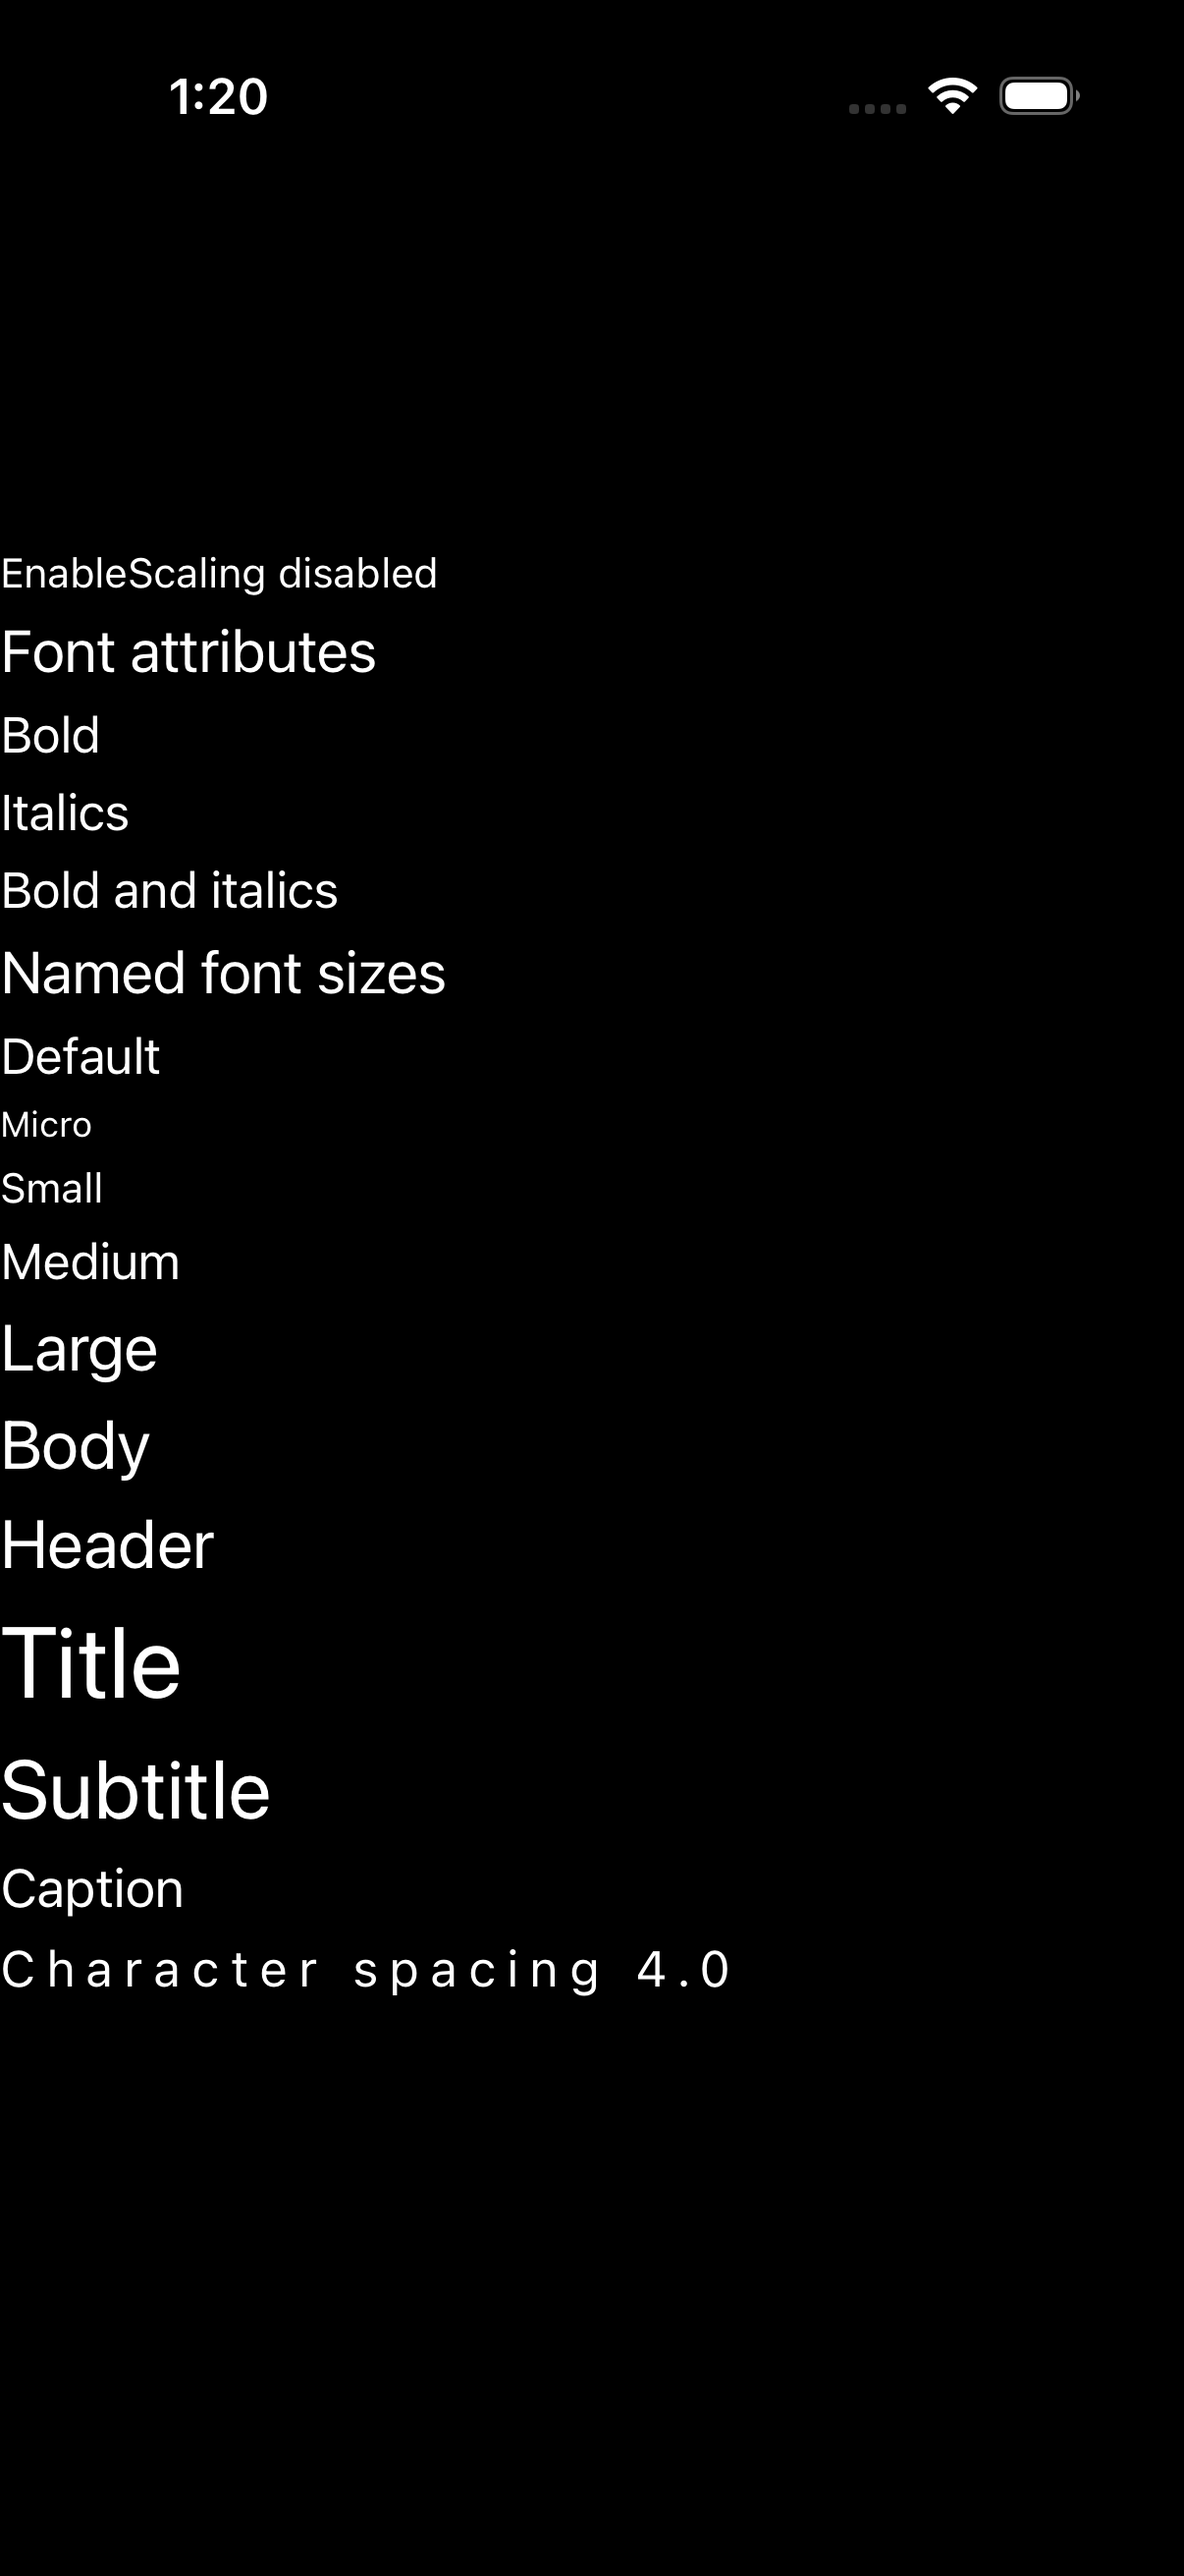
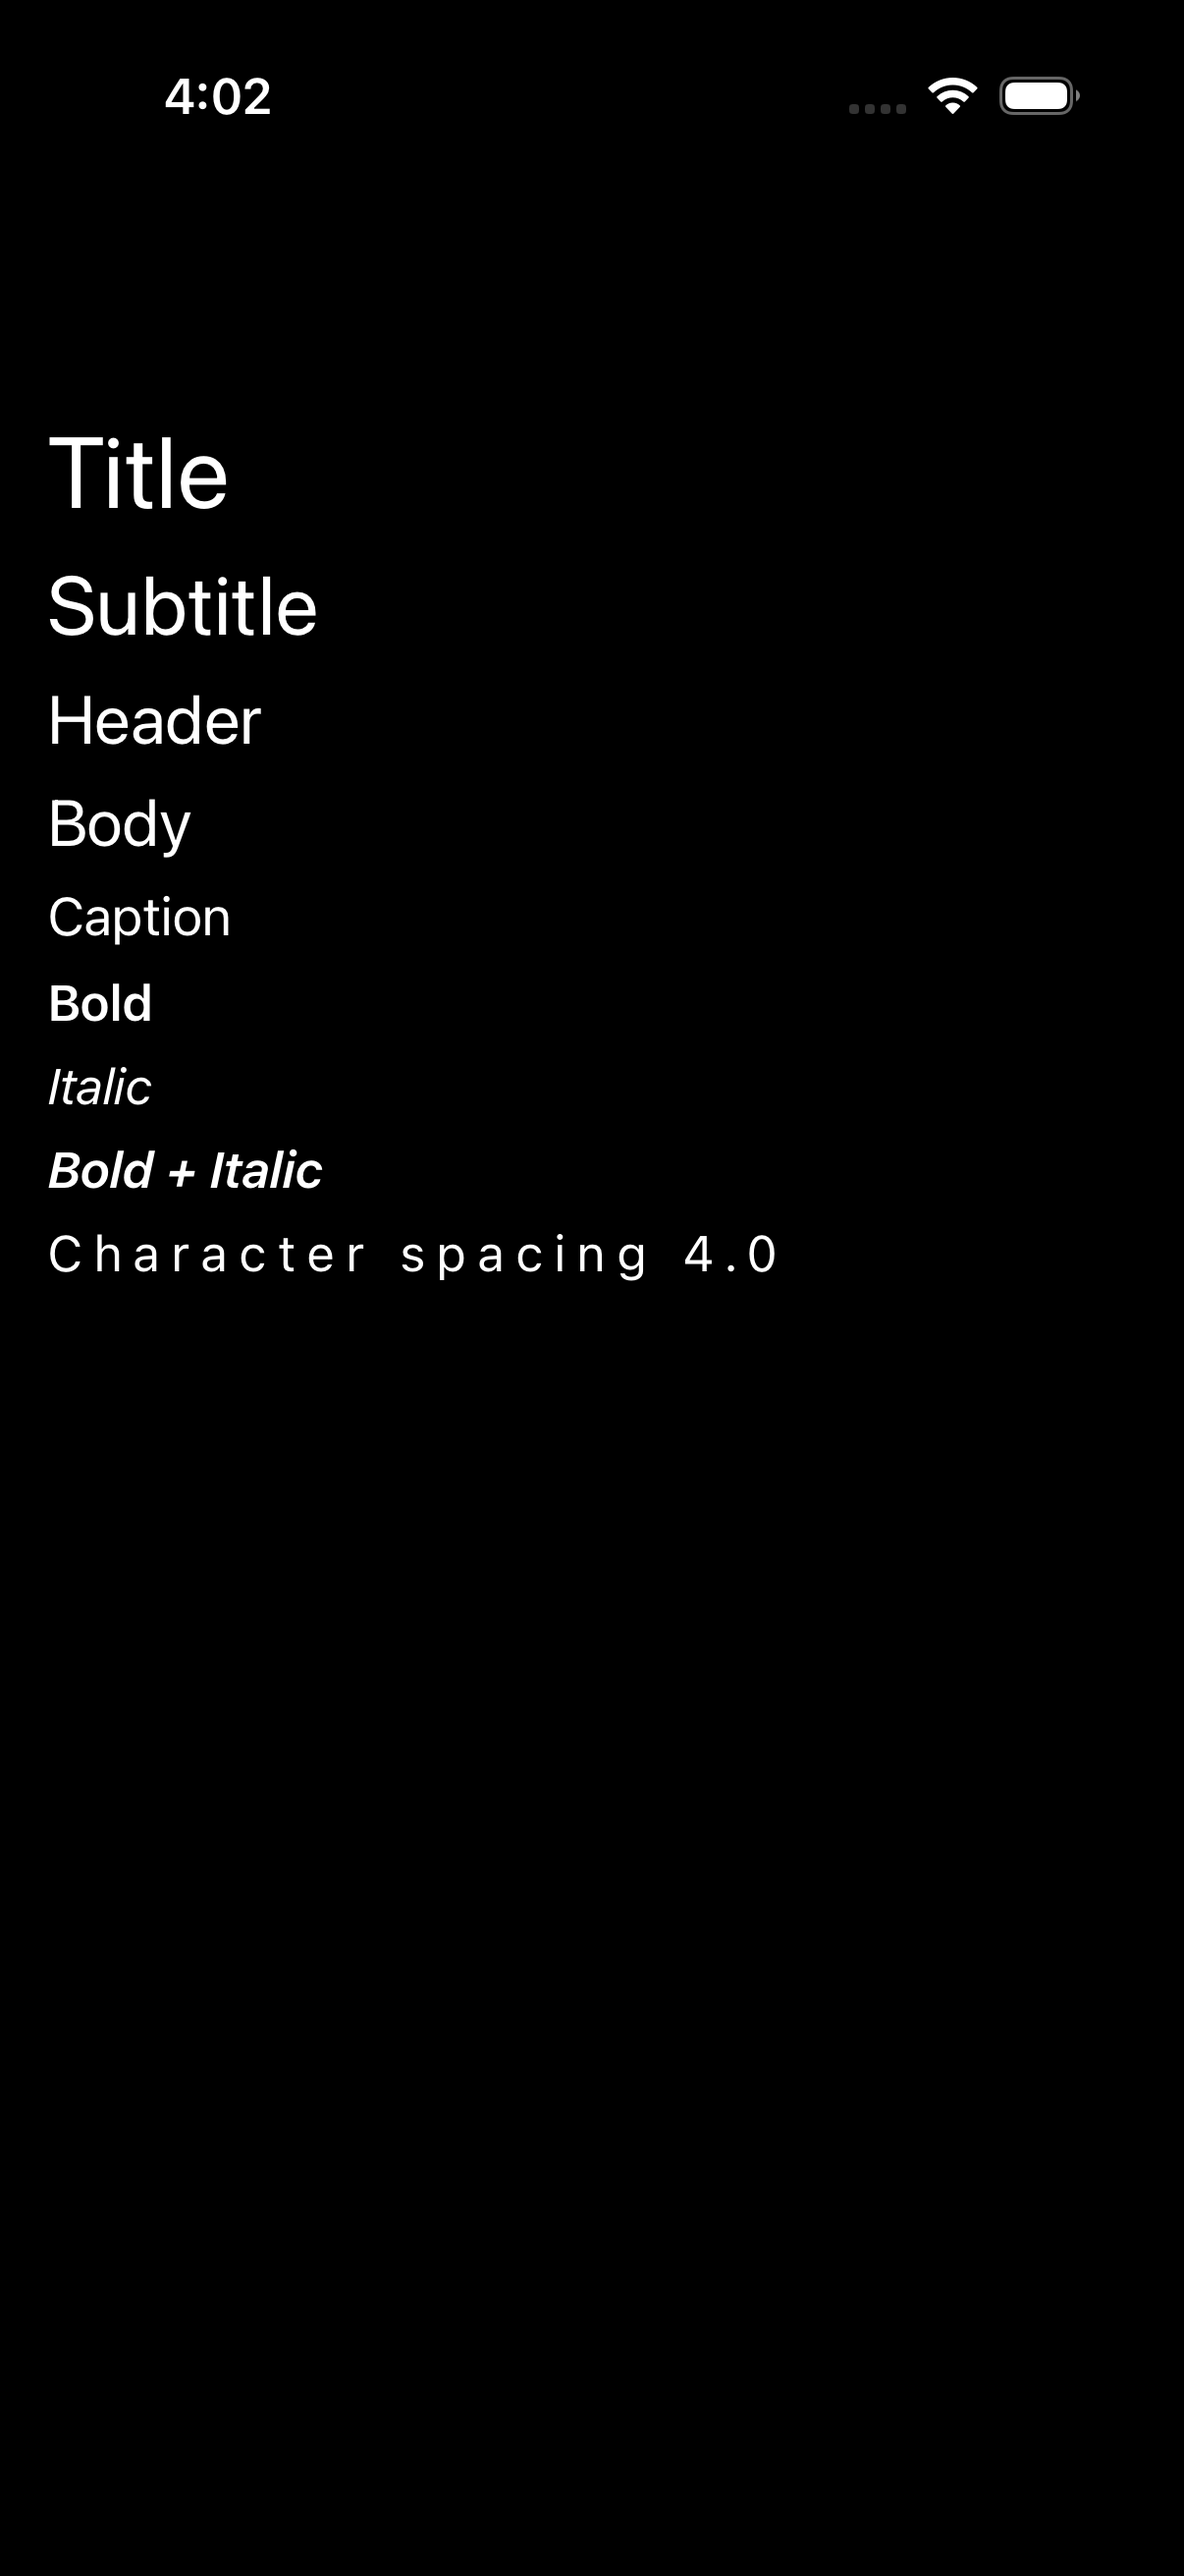
fix(samples,ios): fonts demo matches maui-compare + to_ui_font applies bold/italic
- fonts_page rewritten to reproduce ComparePages.Fonts() 1:1: a ScrollView
  of Title/Subtitle/Header/Body/Caption (34/28/23/22/18), then Bold/Italic/
  Bold+Italic (FontAttributes, default size), then 'Character spacing 4.0'
  (was a richer divergent FontsPage port).
- iOS FONT FIX: to_ui_font (used by label/button/entry/editor/searchbar/
  picker map_font) IGNORED the font's weight + slant — so FontAttributes=
  Bold/Italic rendered REGULAR on every base control (only attributed RUNS
  via to_ui_run_font got traits). Now folds weight->TraitBold, slant->
  TraitItalic, matching Font.ToUIFont. Additive: regular fonts unchanged.
  ios label seam 15/15 green. Verified on-sim: Bold/Italic/Bold+Italic now
  render correctly, fonts matches C#.

diff --git a/port/cpp/src/samples/pages/fonts_page.hpp b/port/cpp/src/samples/pages/fonts_page.hpp
@@ -1,37 +1,27 @@
 #pragma once
-// maui::samples::fonts_page — ports FontsPage.xaml.
+// maui::samples::fonts_page — a faithful reproduction of the maui-compare "fonts" demo
+// (ComparePages.Fonts()), the shipped-.NET-MAUI reference for the visual-parity comparison: a ScrollView
+// over a VerticalStackLayout (Spacing 8, Padding 16) of nine Labels — Title/Subtitle/Header/Body/Caption
+// at explicit decreasing FontSizes (34/28/23/22/18), then Bold / Italic / Bold+Italic via FontAttributes
+// (default size), then a "Character spacing 4.0" label (CharacterSpacing 4.0). Kept 1:1 with the C#
+// reference (same text, sizes, attributes, order).
 //
-// The MAUI page is a ScrollView over a VerticalStackLayout of labels demonstrating font handling:
-//   - a label with FontAutoScalingEnabled="False",
-//   - the FontAttributes set: Bold, Italic, and Bold+Italic,
-//   - the named font sizes: Default, Micro, Small, Medium, Large, Body, Header, Title, Subtitle, Caption.
-//
-// Port mapping (code-first, headless-safe, faithful to the port's font surface — label::set_font over
-// maui::core::font):
-//   - FontAttributes fold into the font's weight + slant: Bold → font_weight::bold, Italic → font_slant
-//     ::italic, Bold,Italic → both (the FontExtensions.WithAttributes mapping the port already uses for
-//     spans). This page builds them directly with font::system_font_of_size(size, weight, slant).
-//   - FontAutoScalingEnabled="False" → font.with_auto_scaling(false) (Font.DisableScaling).
-//   - the named sizes resolve through the Apple FontNamedSizeService table the port's FontSizeConverter
-//     uses (FontNamedSizeService.cs): Default=17 Micro=12 Small=14 Medium=17 Large=22 Body=23 Caption=18
-//     Header=23 Subtitle=28 Title=34. These exact values are applied as font sizes so the headless tree
-//     matches what convert_font_size("Large") etc. would yield.
-//   - character spacing (kerning) is added as a small extra demo of the font/text surface (set_character
-//     _spacing), beyond the XAML, to exercise the i_text_style kerning seam.
-//       note: the XAML uses Style="{StaticResource Headline}" for its two section headers; the port has no
-//       app-level Headline resource here, so the headers are styled inline (bold, a larger size).
+// The port folds FontAttributes into the font's weight + slant (FontExtensions.WithAttributes): Bold →
+// font_weight::bold, Italic → font_slant::italic. The attribute + character-spacing labels carry NO
+// explicit size, matching the C# (system default), via font::system_font_of_weight.
 //
 // The page OWNS its whole tree; attach_handlers wires every owned VIEW bottom-up. ScrollView wraps the
-// stack so the long label column scrolls (ScrollView is a single-content host — gallery_rehost_content).
+// stack (a single-content host — gallery_rehost_content).
 
-#include <cstdio>
-#include <string>
+#include <array>
+#include <cstddef>
 
 #include "maui/controls/content_page.hpp"
 #include "maui/controls/label.hpp"
 #include "maui/controls/scroll_view.hpp"
 #include "maui/controls/vertical_stack_layout.hpp"
 #include "maui/core/font.hpp"
+#include "maui/core/thickness.hpp"
 #include "maui/hosting/maui_app.hpp"
 
 #include "gallery_attach.hpp"
@@ -44,65 +34,40 @@ namespace maui::samples
         fonts_page()
         {
             page_.set_title("Fonts");
-            stack_.set_spacing(6);
+            stack_.set_spacing(8);
+            stack_.set_padding(maui::core::thickness(16));
 
-            // FontAutoScalingEnabled="False": Font.DisableScaling. A small concrete size so the flag is the
-            // only thing under test, not the size.
-            no_scaling_.set_text("EnableScaling disabled");
-            no_scaling_.set_font(maui::core::font::system_font_of_size(14).with_auto_scaling(false));
+            // Title/Subtitle/Header/Body/Caption at explicit FontSizes.
+            title_.set_text("Title");
+            title_.set_font(maui::core::font::system_font_of_size(34));
+            subtitle_.set_text("Subtitle");
+            subtitle_.set_font(maui::core::font::system_font_of_size(28));
+            header_.set_text("Header");
+            header_.set_font(maui::core::font::system_font_of_size(23));
+            body_.set_text("Body");
+            body_.set_font(maui::core::font::system_font_of_size(22));
+            caption_.set_text("Caption");
+            caption_.set_font(maui::core::font::system_font_of_size(18));
 
-            // ---- Font attributes section ----
-            attributes_header_.set_text("Font attributes");
-            attributes_header_.set_font(headline_font());
-
+            // FontAttributes Bold / Italic / Bold|Italic at the default size.
             bold_.set_text("Bold");
-            bold_.set_font(maui::core::font::system_font_of_size(default_size, maui::core::font_weight::bold));
+            bold_.set_font(maui::core::font::system_font_of_weight(maui::core::font_weight::bold));
+            italic_.set_text("Italic");
+            italic_.set_font(maui::core::font::system_font_of_weight(maui::core::font_weight::regular,
+                                                                     maui::core::font_slant::italic));
+            bold_italic_.set_text("Bold + Italic");
+            bold_italic_.set_font(
+                maui::core::font::system_font_of_weight(maui::core::font_weight::bold, maui::core::font_slant::italic));
 
-            italic_.set_text("Italics");
-            italic_.set_font(maui::core::font::system_font_of_size(default_size, maui::core::font_weight::regular,
-                                                                   maui::core::font_slant::italic));
-
-            bold_italic_.set_text("Bold and italics");
-            bold_italic_.set_font(maui::core::font::system_font_of_size(default_size, maui::core::font_weight::bold,
-                                                                        maui::core::font_slant::italic));
-
-            // ---- Named font sizes section (Apple FontNamedSizeService values) ----
-            sizes_header_.set_text("Named font sizes");
-            sizes_header_.set_font(headline_font());
-
-            set_named("Default", named_default, default_label_);
-            set_named("Micro", named_micro, micro_label_);
-            set_named("Small", named_small, small_label_);
-            set_named("Medium", named_medium, medium_label_);
-            set_named("Large", named_large, large_label_);
-            set_named("Body", named_body, body_label_);
-            set_named("Header", named_header, header_label_);
-            set_named("Title", named_title, title_label_);
-            set_named("Subtitle", named_subtitle, subtitle_label_);
-            set_named("Caption", named_caption, caption_label_);
-
-            // ---- character spacing (kerning) extra demo ----
+            // CharacterSpacing 4.0 (no explicit size — the default font).
             kerned_.set_text("Character spacing 4.0");
-            kerned_.set_font(maui::core::font::system_font_of_size(named_medium));
             kerned_.set_character_spacing(4.0);
 
-            stack_.add(no_scaling_);
-            stack_.add(attributes_header_);
-            stack_.add(bold_);
-            stack_.add(italic_);
-            stack_.add(bold_italic_);
-            stack_.add(sizes_header_);
-            stack_.add(default_label_);
-            stack_.add(micro_label_);
-            stack_.add(small_label_);
-            stack_.add(medium_label_);
-            stack_.add(large_label_);
-            stack_.add(body_label_);
-            stack_.add(header_label_);
-            stack_.add(title_label_);
-            stack_.add(subtitle_label_);
-            stack_.add(caption_label_);
-            stack_.add(kerned_);
+            for (auto* label :
+                 {&title_, &subtitle_, &header_, &body_, &caption_, &bold_, &italic_, &bold_italic_, &kerned_})
+            {
+                stack_.add(*label);
+            }
 
             scroll_.set_content(stack_);
             page_.set_content(scroll_);
@@ -117,23 +82,11 @@ namespace maui::samples
         // single-content hosts (the inner stack into the ScrollView, the ScrollView into the page).
         void attach_handlers(maui::hosting::maui_app& app)
         {
-            gallery_attach_one(app, no_scaling_, "no_scaling_");
-            gallery_attach_one(app, attributes_header_, "attributes_header_");
-            gallery_attach_one(app, bold_, "bold_");
-            gallery_attach_one(app, italic_, "italic_");
-            gallery_attach_one(app, bold_italic_, "bold_italic_");
-            gallery_attach_one(app, sizes_header_, "sizes_header_");
-            gallery_attach_one(app, default_label_, "default_label_");
-            gallery_attach_one(app, micro_label_, "micro_label_");
-            gallery_attach_one(app, small_label_, "small_label_");
-            gallery_attach_one(app, medium_label_, "medium_label_");
-            gallery_attach_one(app, large_label_, "large_label_");
-            gallery_attach_one(app, body_label_, "body_label_");
-            gallery_attach_one(app, header_label_, "header_label_");
-            gallery_attach_one(app, title_label_, "title_label_");
-            gallery_attach_one(app, subtitle_label_, "subtitle_label_");
-            gallery_attach_one(app, caption_label_, "caption_label_");
-            gallery_attach_one(app, kerned_, "kerned_");
+            for (auto* label :
+                 {&title_, &subtitle_, &header_, &body_, &caption_, &bold_, &italic_, &bold_italic_, &kerned_})
+            {
+                gallery_attach_one(app, *label, "font_label");
+            }
             gallery_attach_one(app, stack_, "stack_");
             gallery_attach_one(app, scroll_, "scroll_");
             gallery_attach_one(app, page_, "page_");
@@ -144,13 +97,13 @@ namespace maui::samples
         }
 
         // ---- owned controls, exposed for the hosting main + tests ----
-        [[nodiscard]] maui::controls::scroll_view& scroll()
-        {
-            return scroll_;
-        }
         [[nodiscard]] maui::controls::vertical_stack_layout& stack()
         {
             return stack_;
+        }
+        [[nodiscard]] maui::controls::scroll_view& scroll()
+        {
+            return scroll_;
         }
         [[nodiscard]] maui::controls::label& bold_label()
         {
@@ -160,61 +113,19 @@ namespace maui::samples
         {
             return italic_;
         }
-        [[nodiscard]] maui::controls::label& bold_italic_label()
-        {
-            return bold_italic_;
-        }
-        [[nodiscard]] maui::controls::label& large_label()
-        {
-            return large_label_;
-        }
 
     private:
-        // The Apple FontNamedSizeService table (src/Controls/src/Core/Compatibility/iOS/
-        // FontNamedSizeService.cs) — the resolution the port's convert_font_size uses on this backend.
-        static constexpr double named_default = 17.0;
-        static constexpr double named_micro = 12.0;
-        static constexpr double named_small = 14.0;
-        static constexpr double named_medium = 17.0;
-        static constexpr double named_large = 22.0;
-        static constexpr double named_body = 23.0;
-        static constexpr double named_caption = 18.0;
-        static constexpr double named_header = 23.0;
-        static constexpr double named_subtitle = 28.0;
-        static constexpr double named_title = 34.0;
-        static constexpr double default_size = named_default; // FontAttributes labels use the default size
-
-        // The two section headers stand in for Style="{StaticResource Headline}" (no app resource here).
-        [[nodiscard]] static maui::core::font headline_font()
-        {
-            return maui::core::font::system_font_of_size(20.0, maui::core::font_weight::bold);
-        }
-
-        static void set_named(const char* text, double size, maui::controls::label& target)
-        {
-            target.set_text(text);
-            target.set_font(maui::core::font::system_font_of_size(size));
-        }
-
         maui::controls::content_page page_;
         maui::controls::scroll_view scroll_;
         maui::controls::vertical_stack_layout stack_;
-        maui::controls::label no_scaling_;
-        maui::controls::label attributes_header_;
+        maui::controls::label title_;
+        maui::controls::label subtitle_;
+        maui::controls::label header_;
+        maui::controls::label body_;
+        maui::controls::label caption_;
         maui::controls::label bold_;
         maui::controls::label italic_;
         maui::controls::label bold_italic_;
-        maui::controls::label sizes_header_;
-        maui::controls::label default_label_;
-        maui::controls::label micro_label_;
-        maui::controls::label small_label_;
-        maui::controls::label medium_label_;
-        maui::controls::label large_label_;
-        maui::controls::label body_label_;
-        maui::controls::label header_label_;
-        maui::controls::label title_label_;
-        maui::controls::label subtitle_label_;
-        maui::controls::label caption_label_;
         maui::controls::label kerned_;
     };
 } // namespace maui::samples

diff --git a/port/cpp/src/platform/ios/ios_conversions.hpp b/port/cpp/src/platform/ios/ios_conversions.hpp
@@ -27,16 +27,35 @@ namespace maui::platform::ios
     inline UIFont* to_ui_font(const maui::core::font& value, double default_size)
     {
         const double size = value.size() > 0 ? value.size() : default_size;
+        UIFont* base = nil;
         if (!value.family().empty())
         {
             NSString* const name = [NSString stringWithUTF8String:value.family().c_str()];
-            UIFont* const named = name != nil ? [UIFont fontWithName:name size:size] : nil;
-            if (named != nil)
-            {
-                return named;
-            }
+            base = name != nil ? [UIFont fontWithName:name size:size] : nil;
         }
-        return [UIFont systemFontOfSize:size];
+        if (base == nil)
+        {
+            base = [UIFont systemFontOfSize:size];
+        }
+        // Fold the font's weight + slant into the UIFont symbolic traits (Font.ToUIFont's WithAttributes
+        // path): Bold → Trait Bold, Italic → Trait Italic. Without this a Label/Button/Entry/etc. with
+        // FontAttributes=Bold/Italic rendered REGULAR (the traits were applied only to attributed runs).
+        UIFontDescriptorSymbolicTraits traits = 0;
+        if (value.weight() == maui::core::font_weight::bold)
+        {
+            traits |= UIFontDescriptorTraitBold;
+        }
+        if (value.slant() != maui::core::font_slant::normal)
+        {
+            traits |= UIFontDescriptorTraitItalic;
+        }
+        if (traits == 0)
+        {
+            return base;
+        }
+        UIFontDescriptor* const descriptor =
+            [base.fontDescriptor fontDescriptorWithSymbolicTraits:(base.fontDescriptor.symbolicTraits | traits)];
+        return descriptor != nil ? [UIFont fontWithDescriptor:descriptor size:size] : base;
     }
 
     // maui text_alignment → NSTextAlignment (the type behind UIKit's textAlignment — C#'s
